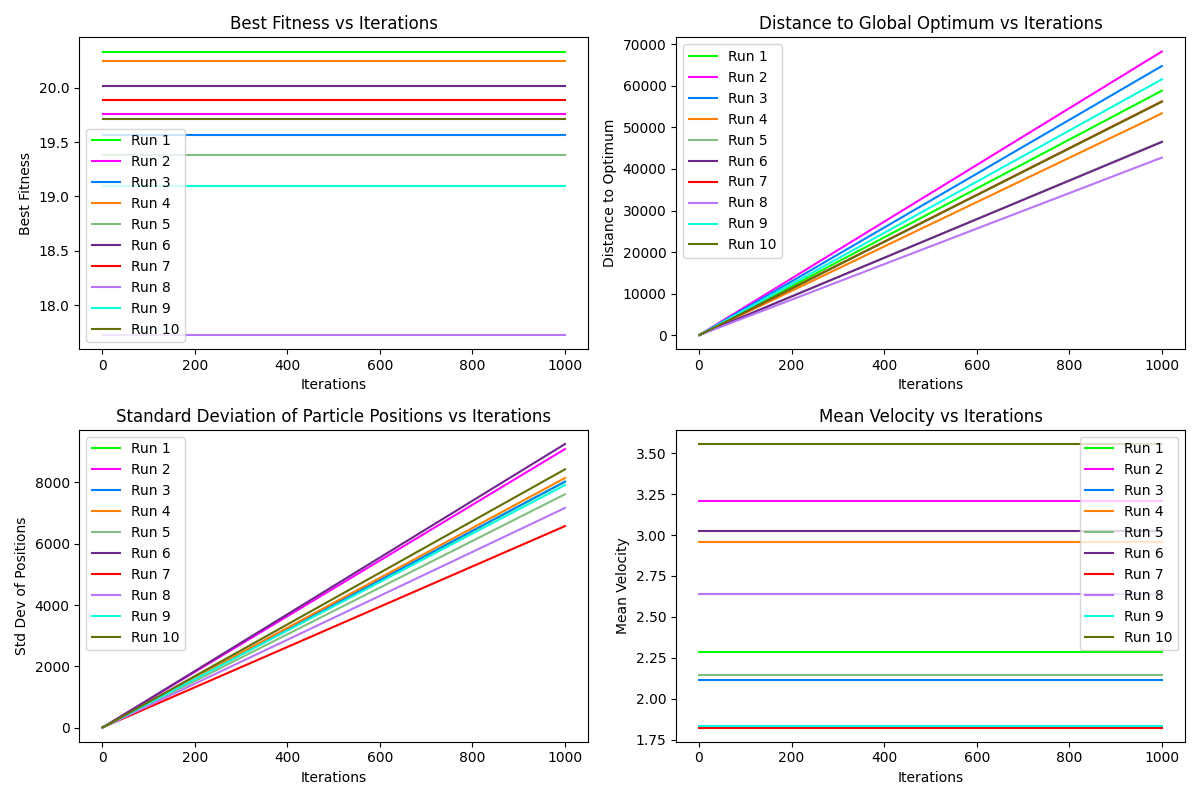
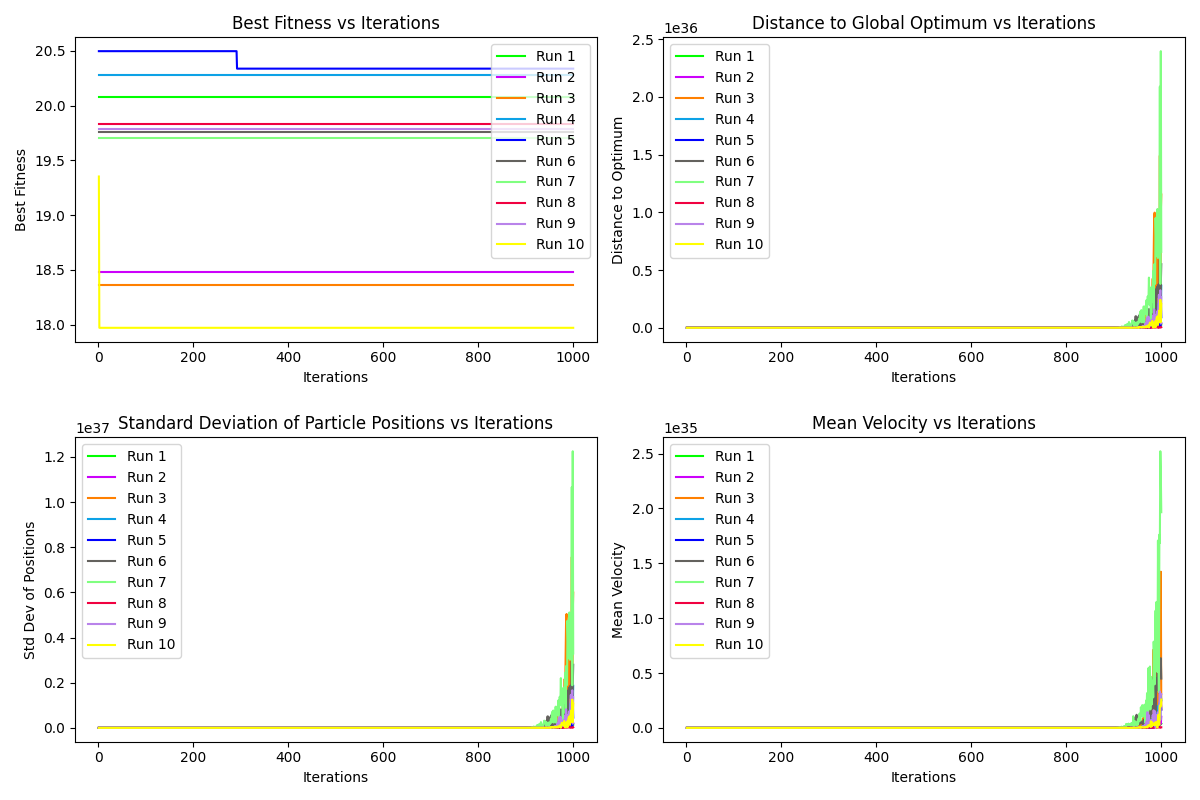
fixed neighbourhood update in topologies

diff --git a/topologies.py b/topologies.py
@@ -6,7 +6,7 @@ class GlobalBestTopology:
         self.type = "gbest"
         self.neighbour_list = []
         for _ in range(len(particles)):
-            self.neighbour_list.append(particles)
+            self.neighbour_list.append(range(len(particles)))
                 
 
 class RingTopology:
@@ -14,11 +14,11 @@ class RingTopology:
         self.type = "ring"
         self.neighbour_list = []
 
-        self.neighbour_list.append([particles[-1],particles[1]])
+        self.neighbour_list.append(len(particles)-1,1)
         for i in range(1,len(particles)-1):
-            self.neighbour_list.append([particles[i-1],particles[i+1]])
+            self.neighbour_list.append(i-1,i+1)
 
-        self.neighbour_list.append([particles[-2],particles[0]])
+        self.neighbour_list.append(len(particles)-2,0)
 
 class StarTopology:
     def __init__(self,particles):
@@ -29,16 +29,16 @@ class StarTopology:
         fitness_function = AckleyFunction(dimensions=len(particles[0].position))
         best_fitness = fitness_function.evaluate(particles[0].position)
         current_best = particles[0]
-        for particle in particles:
-            fitness = fitness_function.evaluate(particle.position)
+        for i in range(len(particles)):
+            fitness = fitness_function.evaluate(particles[i].position)
             if fitness < best_fitness:
                 best_fitness = fitness
-                current_best = particle
+                current_best_index = i
 
         self.neighbour_list = []
 
-        for particle in particles:
-            self.neighbour_list.append([particle, current_best])
+        for i in range(len(particles)):
+            self.neighbour_list.append([i, current_best_index])
 
 class RandomNeighbourhoodConnectivity:
     def __init__(self,particles):
@@ -49,11 +49,7 @@ class RandomNeighbourhoodConnectivity:
         self.neighbour_list = []
 
         for particle in particles:
-            neighbour_indices = random.sample(range(len(particles)), random.randint(1, len(particles) - 1))
-            temp = [particle]
-            for neighbour in neighbour_indices:
-                temp.append(particles[neighbour])
-
-            self.neighbour_list.append(temp)
+            neighbour_indices = random.sample(range(len(particles)), random.randint(0, len(particles) - 1))
+            self.neighbour_list.append(neighbour_indices)
 
 

diff --git a/pso_variants.py b/pso_variants.py
@@ -61,8 +61,6 @@ class PSO:
                 all_positions.append(self.problem[particle].position)
                 all_vectors.append(self.problem[particle].velocity)
 
-                self.update(particle)
-
                 fitness = fitness_function.evaluate(
                     self.problem[particle].position)
 
@@ -73,6 +71,18 @@ class PSO:
                 if fitness < self.global_best_fitness:
                     self.global_best_fitness = fitness
                     self.global_best_position = self.problem[particle].position
+
+                if self.topology.type == "gbest":
+                    self.problem[particle].best_neighbour_position = self.global_best_position
+                    self.problem[particle].best_neighbour_fitness = self.global_best_fitness
+                else:
+                    for neighbour in self.topology.neighbour_list[particle]:
+                        fitness = fitness_function.evaluate(self.problem[neighbour].position)
+                        if fitness < self.problem[particle].best_neighbour_fitness:
+                            self.problem[particle].best_neighbour_position = self.problem[neighbour].position
+                            self.problem[particle].best_neighbour_fitness = fitness
+
+                self.update(particle)
 
             if self.topology.type == "star":
                 self.topology.update(self.problem)

diff --git a/run_experiments.py b/run_experiments.py
@@ -52,7 +52,9 @@ def run_experiment(swarm_size, num_runs=10, pso_type="standard",topology_type="g
 
 #part6 
 run_experiment(30,file_name="metrics_std_pso.png")
+run_experiment(30,pso_type="inertia",file_name="metrics_std_pso_weight adjust.png")
 
+"""
 #part7
 run_experiment(20,file_name="metrics_std_pso_swarm20.png")
 run_experiment(100,file_name="metrics_std_pso_swarm100.png")
@@ -66,3 +68,4 @@ run_experiment(30, file_name="metrics_std_pso_topo_gbest.png")
 run_experiment(30,topology_type="ring", file_name="metrics_std_pso_topo_ring.png")
 run_experiment(30,topology_type="star", file_name="metrics_std_pso_topo_star.png")
 run_experiment(30,topology_type="rand", file_name="metrics_std_pso_topo_rand.png")
+"""
